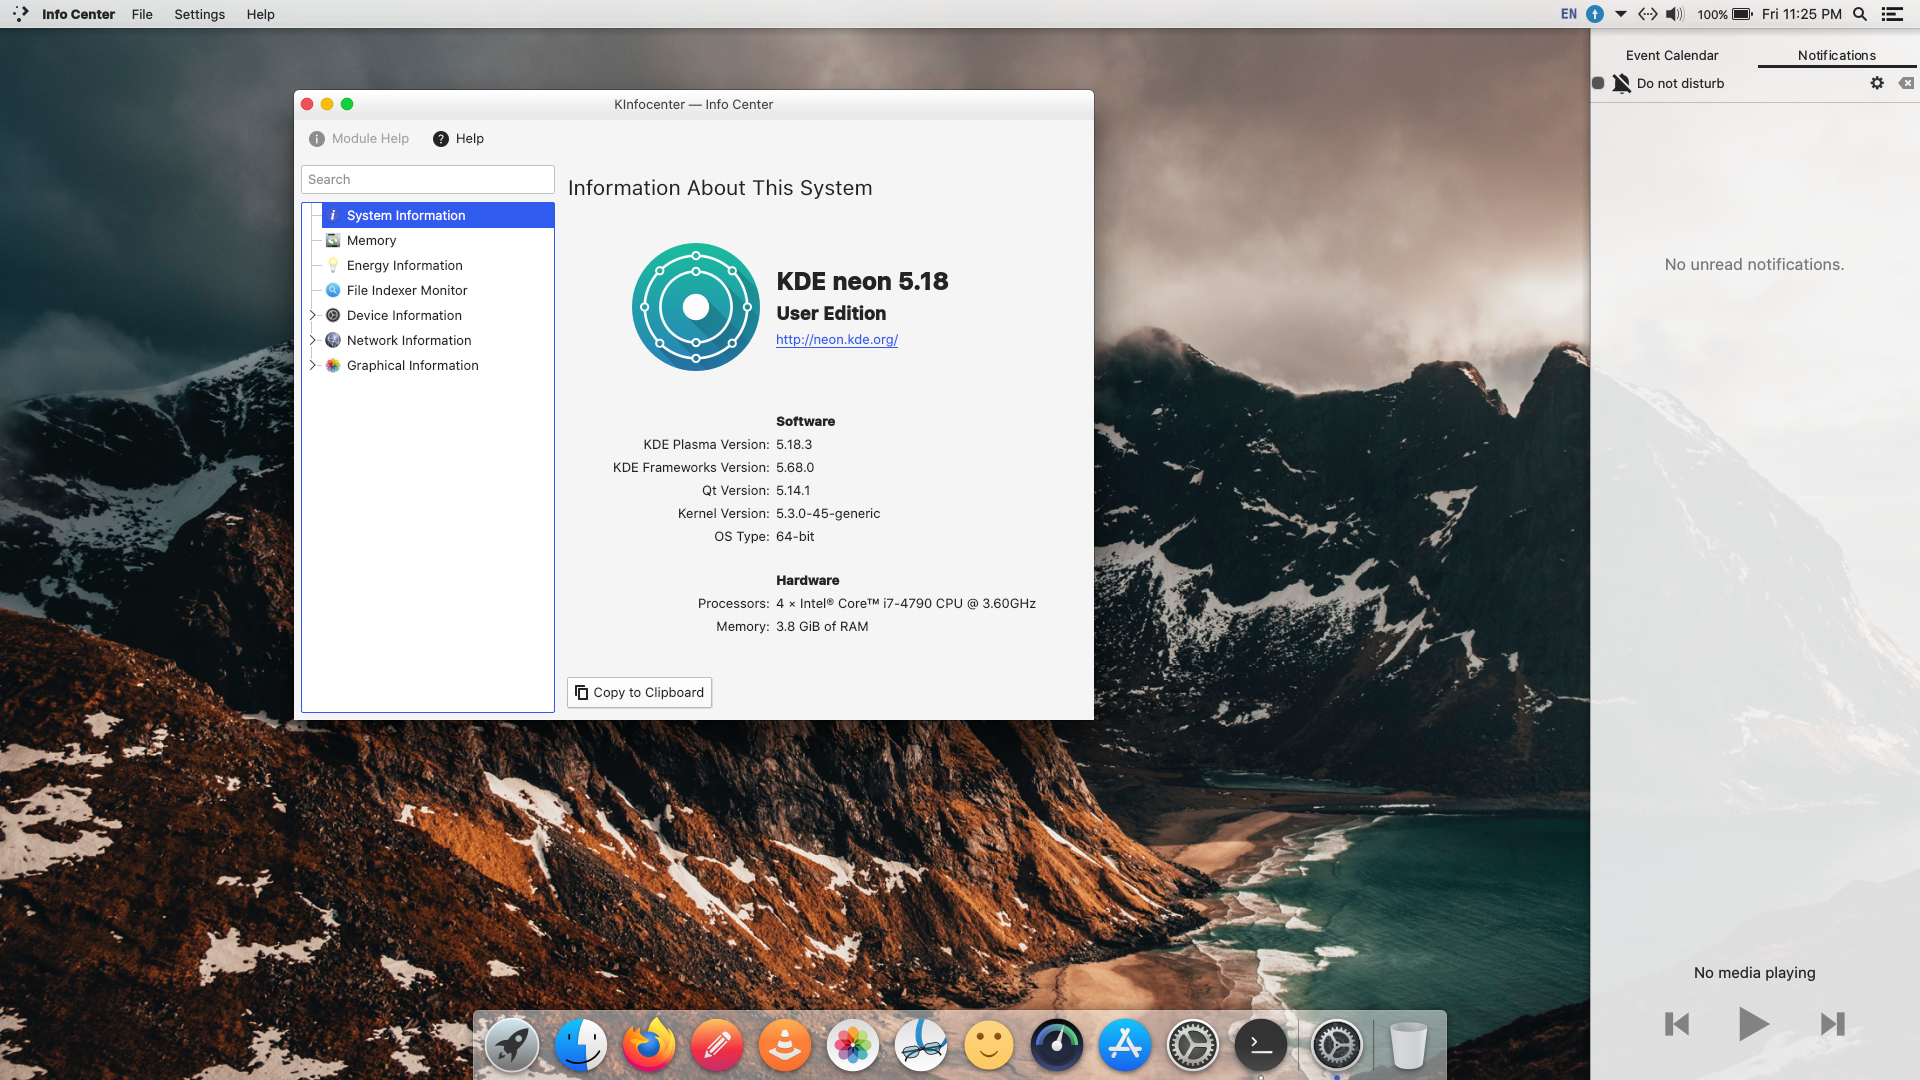
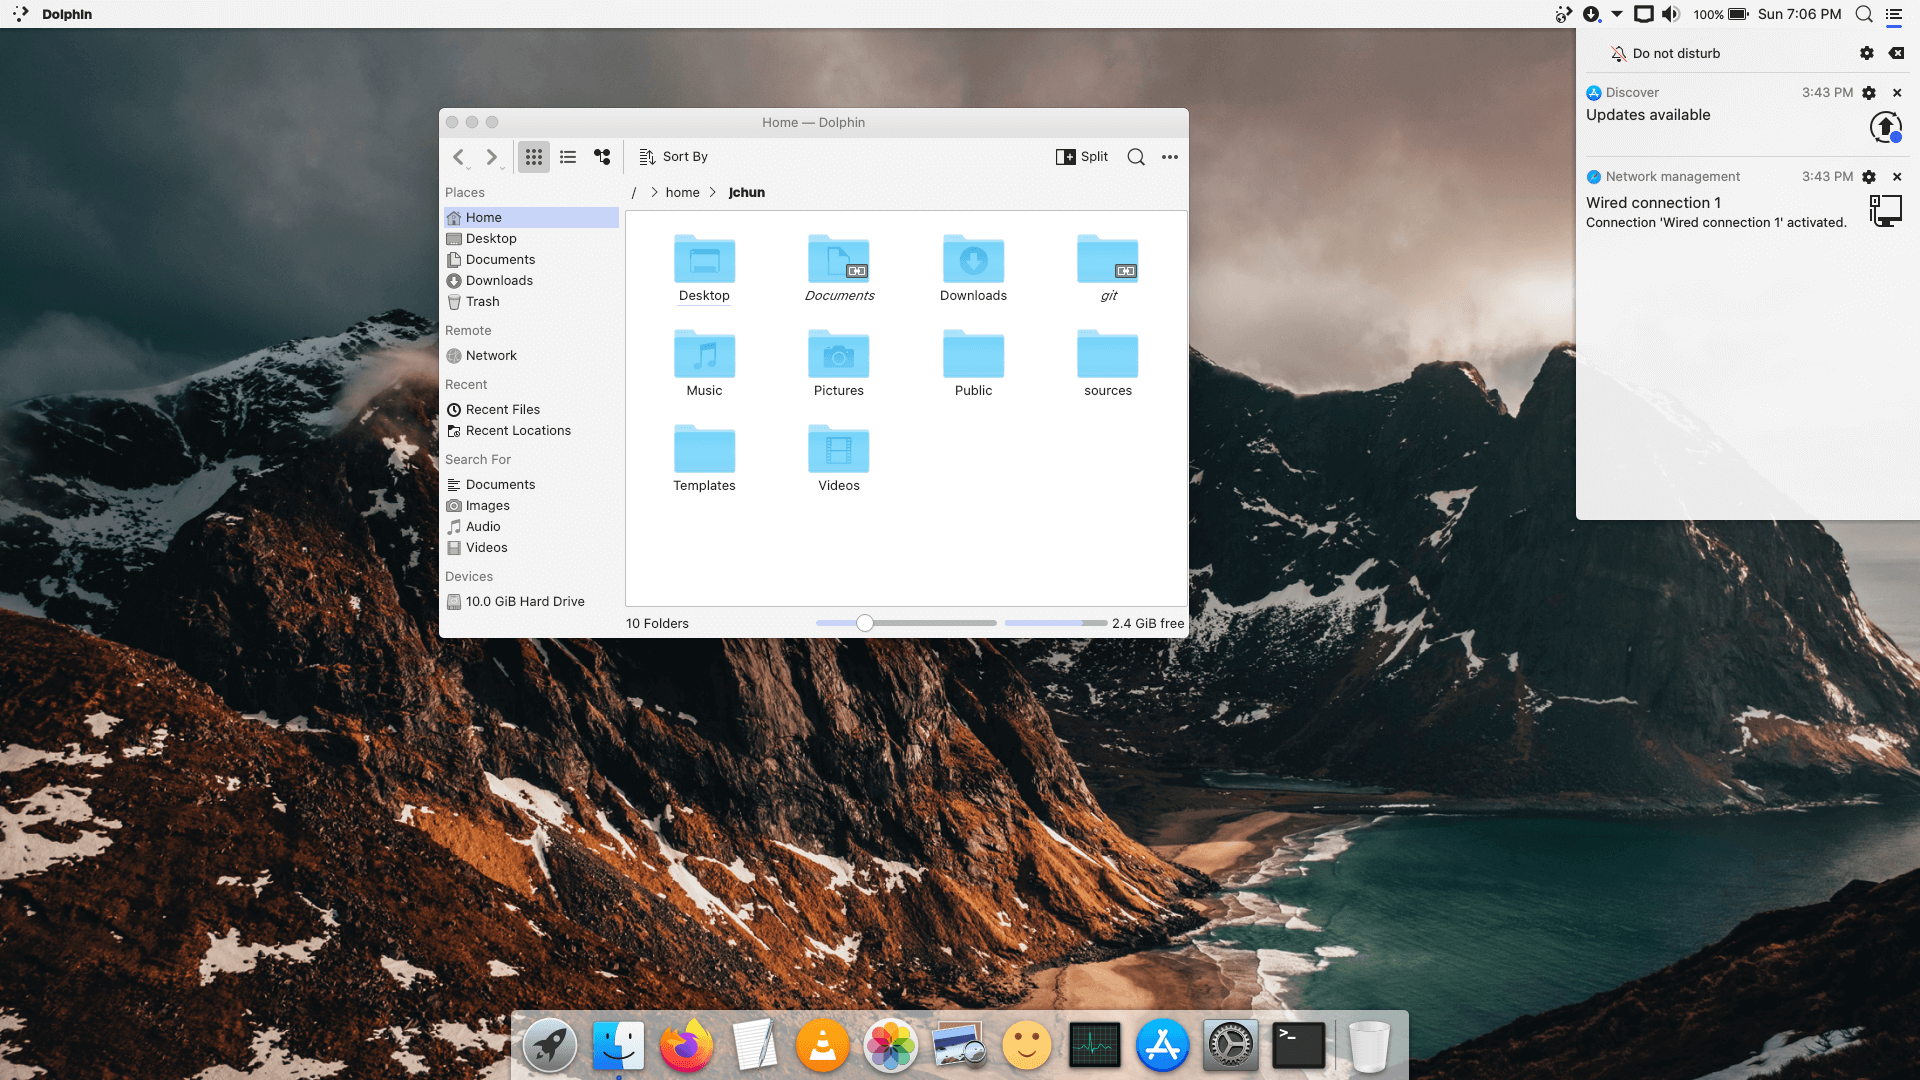
Resolves #20

diff --git a/README.md b/README.md
@@ -23,14 +23,16 @@ bash install.sh
 Before:
 ![macify-linux-1.png](https://raw.githubusercontent.com/Jonchun/macify-linux/master/images/macify-linux-before.png)
 
-After Script Finished Installing:
+After:
 ![macify-linux-1.png](https://raw.githubusercontent.com/Jonchun/macify-linux/master/images/macify-linux-1.png)
 
 Global Menu:
 ![macify-linux-2.png](https://raw.githubusercontent.com/Jonchun/macify-linux/master/images/macify-linux-2.png)
 
-Notification Center alternative:
+Dolphin File browser + Notifications Widget:
 ![macify-linux-3.png](https://raw.githubusercontent.com/Jonchun/macify-linux/master/images/macify-linux-3.png)
+
+Login Screen (Chili!!!):
 ![macify-linux-4.png](https://raw.githubusercontent.com/Jonchun/macify-linux/master/images/macify-linux-4.png)
 
 Spotlight search alternative (Albert):
